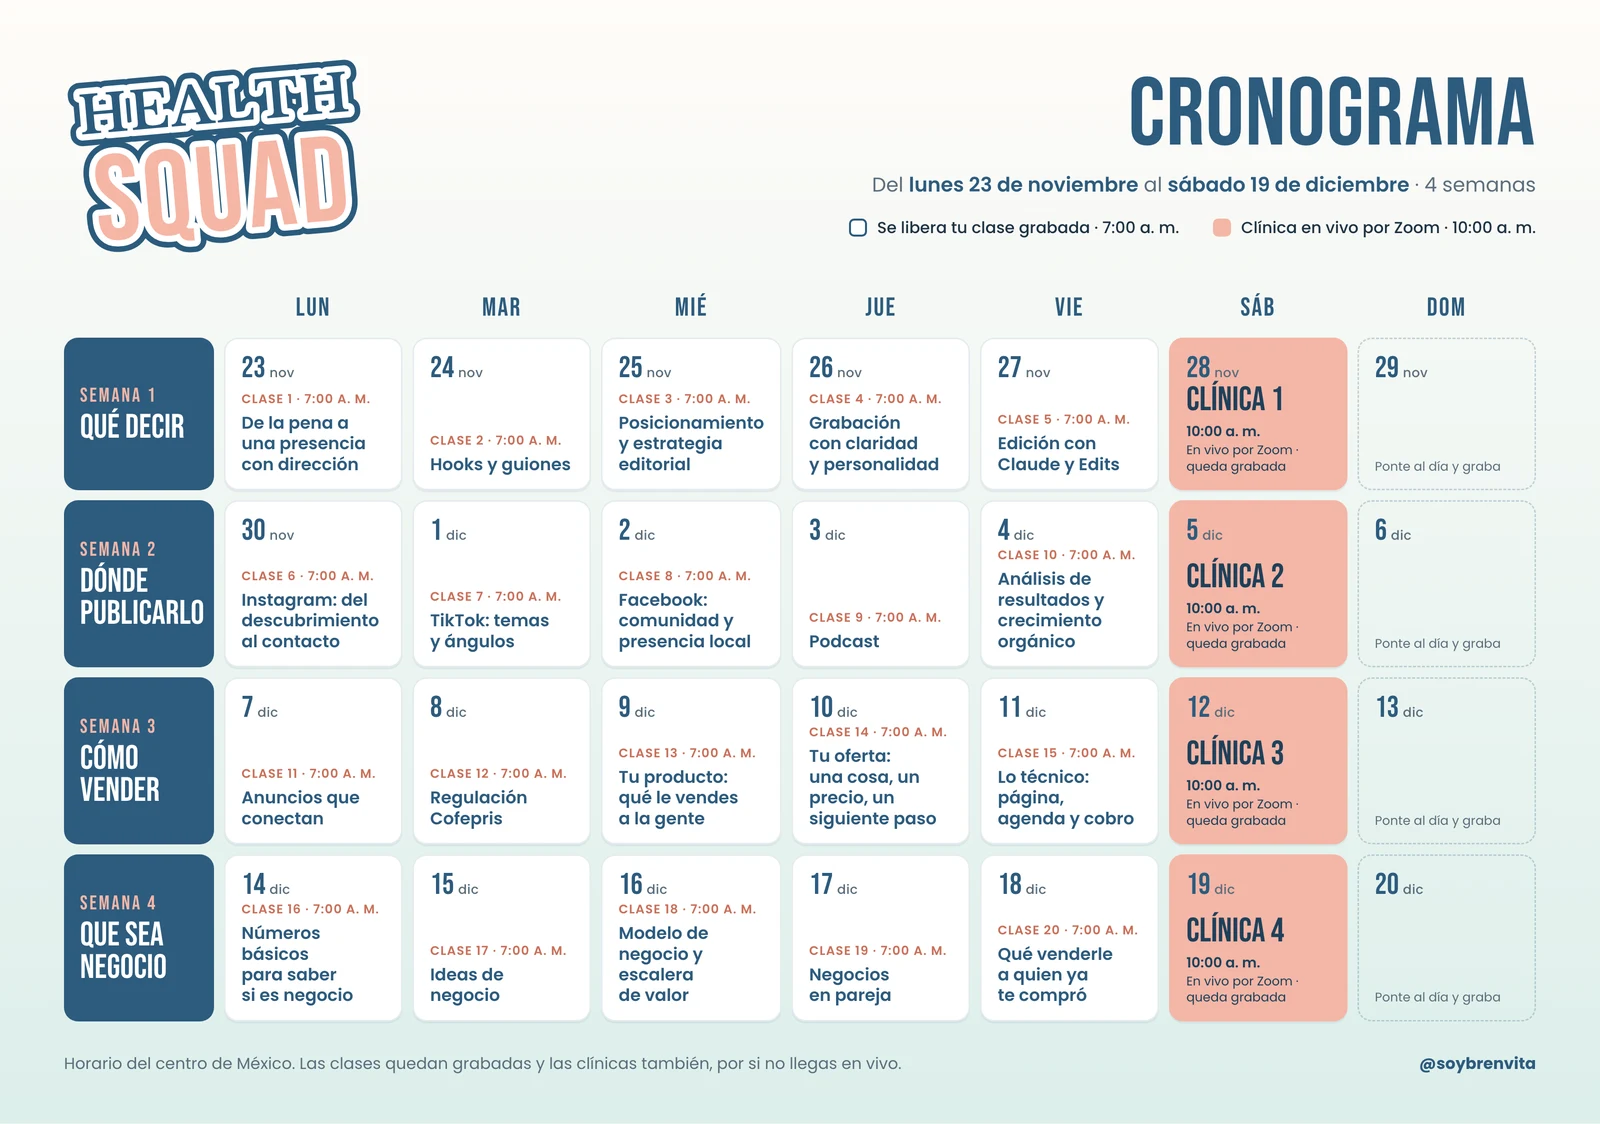
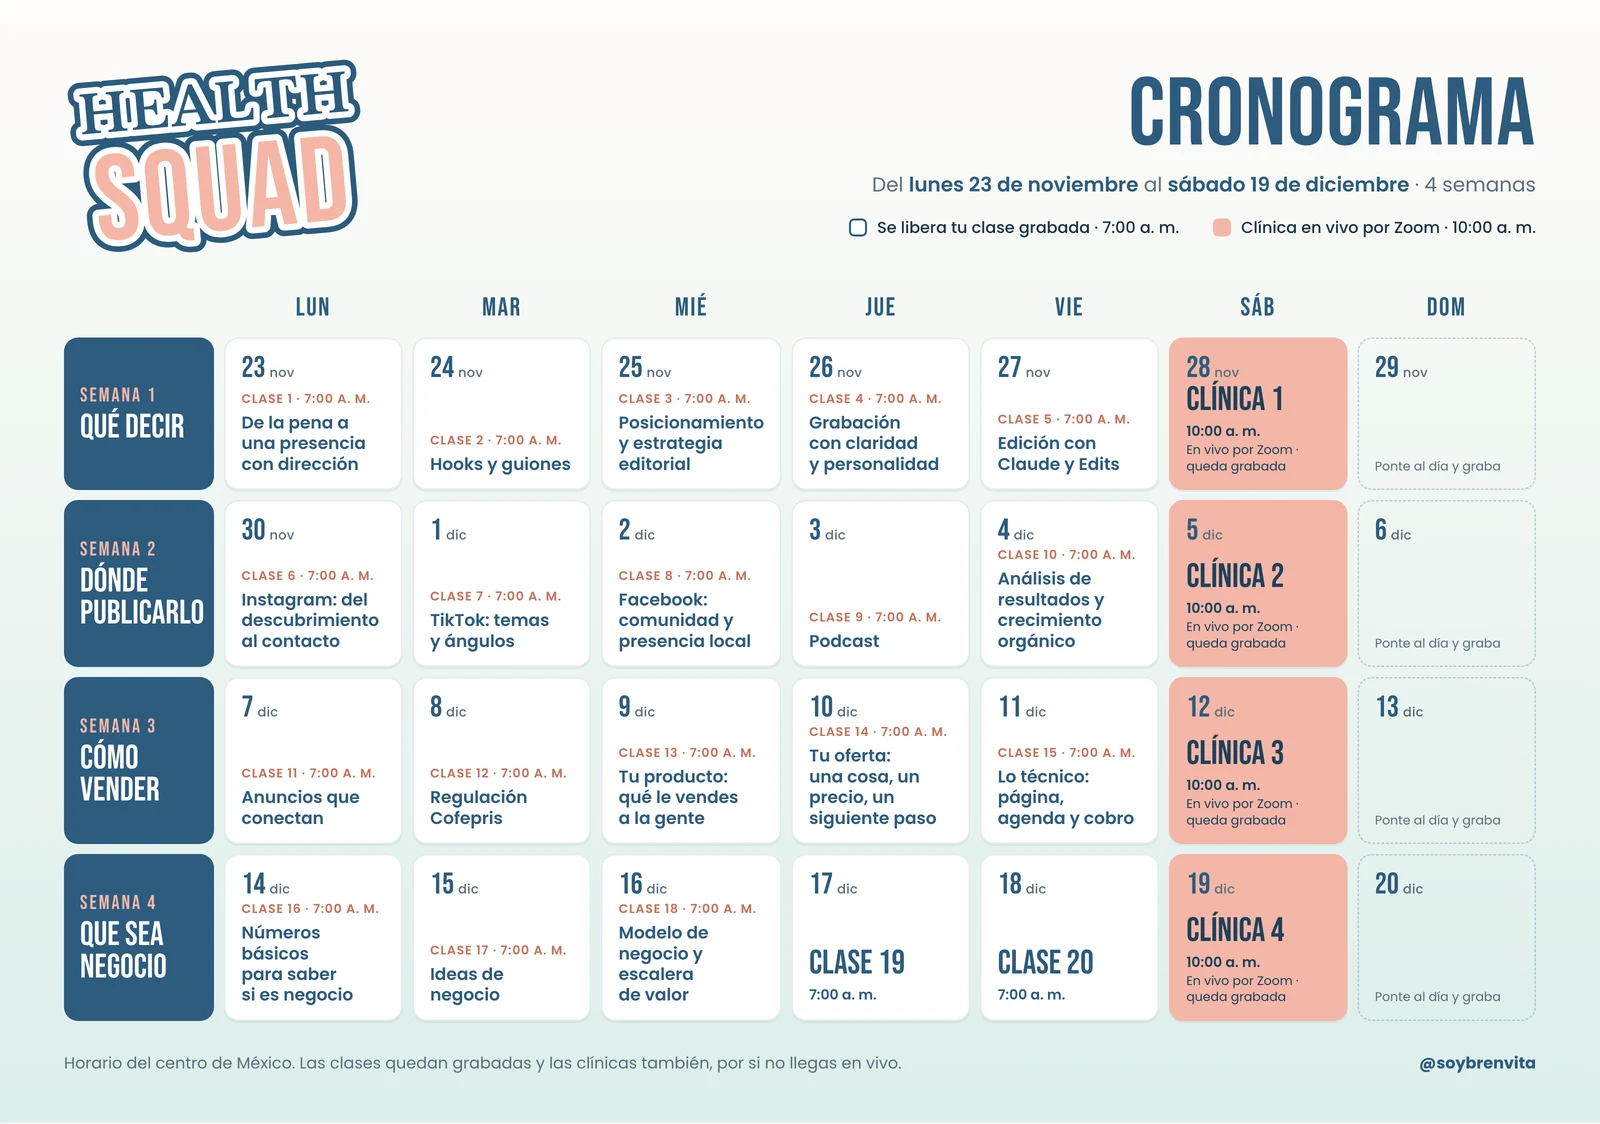
Health Squad: cronograma sin título en las clases 19 y 20

diff --git a/health-squad-faq/index.html b/health-squad-faq/index.html
@@ -111,7 +111,7 @@
         <div class="faq">
           <details open><summary>¿Cuándo empieza y cuándo se libera cada clase?</summary>
             <p>Empezamos el lunes 23 de noviembre. De lunes a viernes se libera una clase a las 7:00 a. m. y el sábado a las 10:00 a. m. es la clínica. Así durante 4 semanas, hasta el 19 de diciembre.</p>
-            <img class="crono" src="/assets/health-squad/cronograma.webp" alt="Cronograma del Health Squad: clases de lunes a viernes a las 7:00 a. m. y clínica los sábados a las 10:00 a. m., del 23 de noviembre al 19 de diciembre" width="1600" height="1124" loading="lazy">
+            <img class="crono" src="/assets/health-squad/cronograma.webp?v=2" alt="Cronograma del Health Squad: clases de lunes a viernes a las 7:00 a. m. y clínica los sábados a las 10:00 a. m., del 23 de noviembre al 19 de diciembre" width="1600" height="1124" loading="lazy">
           </details>
           <details><summary>¿Las clases son en vivo o grabadas?</summary>
             <p>Grabadas, y las ves en cualquier momento de tu día. Lo que es en vivo es la clínica.</p>
